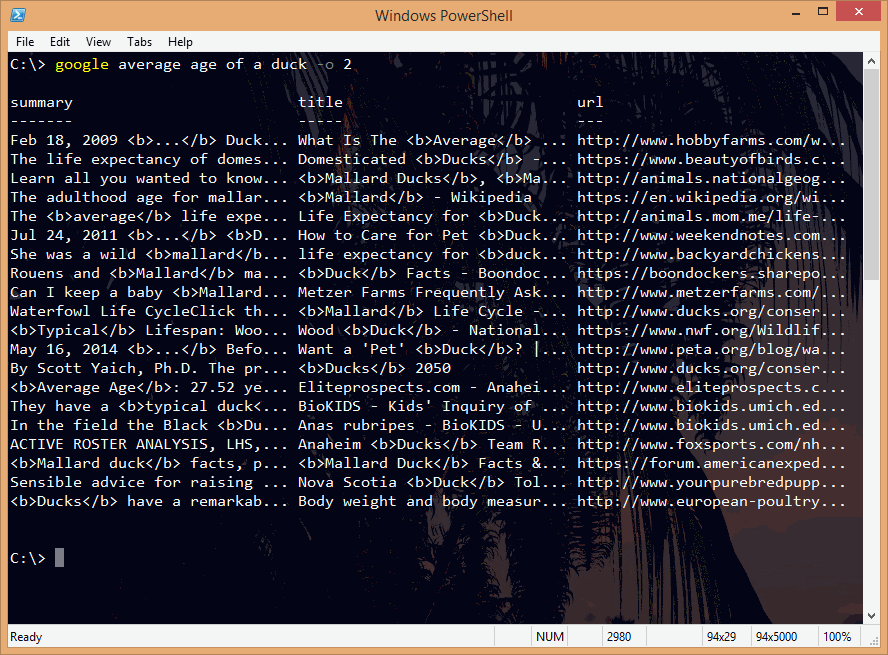
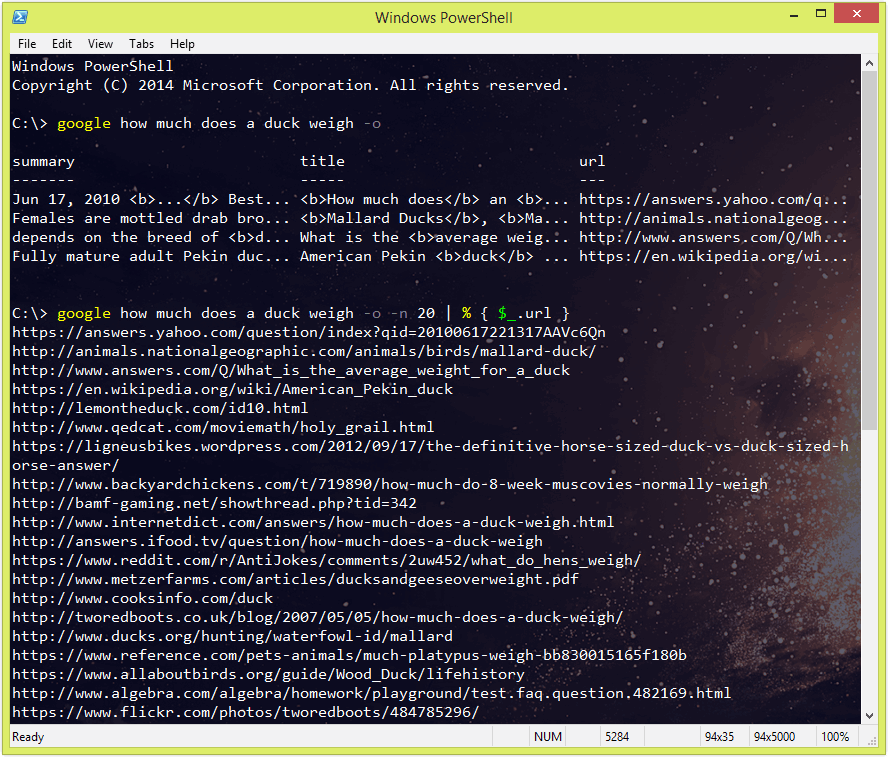
params -o and -n

diff --git a/readme.md b/readme.md
@@ -2,7 +2,7 @@ A "google" command for powershell, e.g.:
 
 ![Screenshot](screenshot.png)
 
-specify `-o` to return objects, the parameter is how many pages to retrieve:
+specify `-o` to return objects, `-n` results to retrieve (default is 4)
 
 ![Screenshot](screenshot2.png)
 
